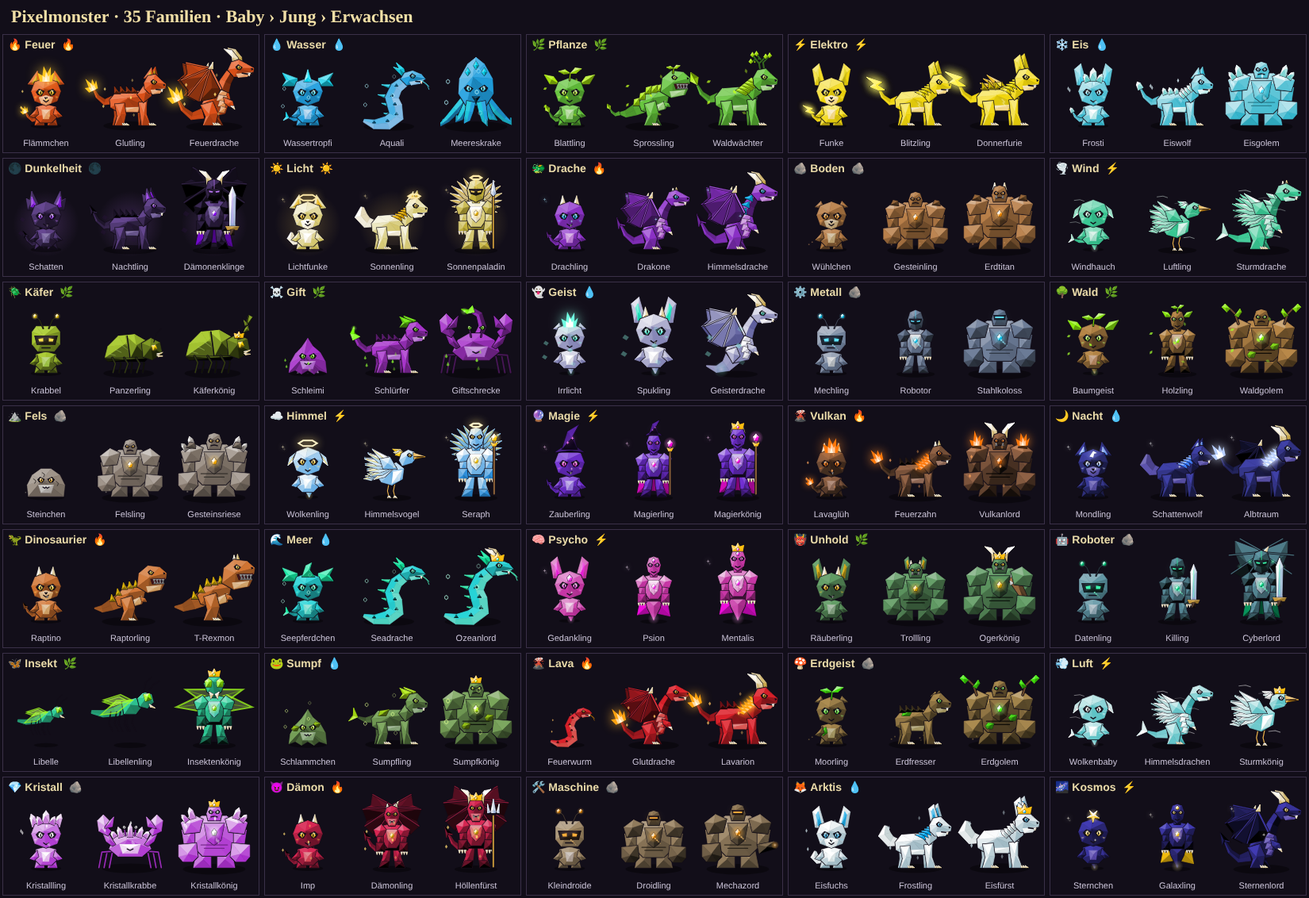
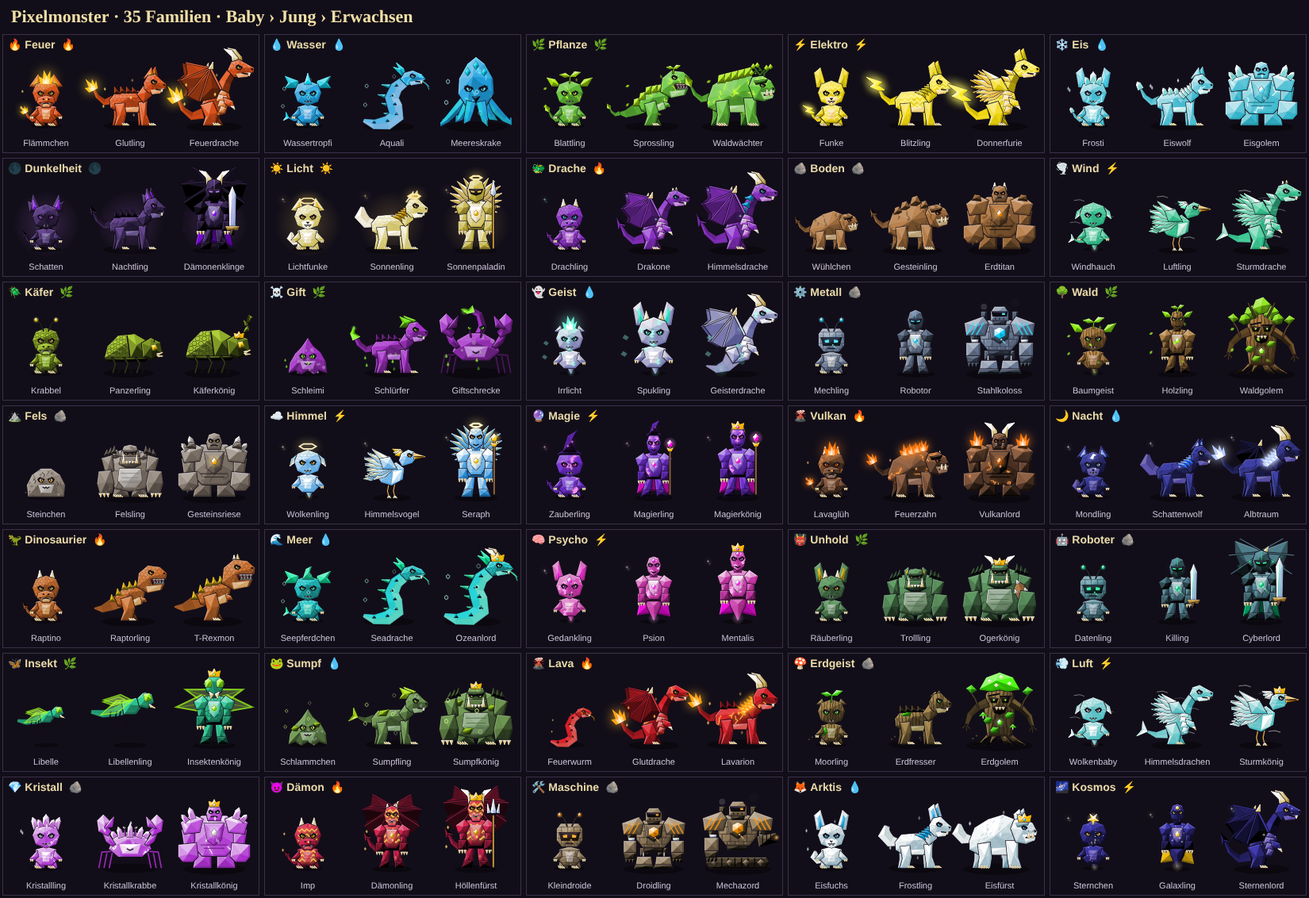
Monster-Design 0.9.4: mehr Details, grimmigere Gesichter, neue Körperbau-Varianten
Claude-Session: https://claude.ai/code/session_01CyDo4MYjtj7pV4CjS45Svt

diff --git a/update/pixelmonster.html b/update/pixelmonster.html
@@ -403,11 +403,34 @@ function glow(ctx,x,y,r,c,a=1){const g=ctx.createRadialGradient(x,y,0,x,y,r);g.a
 function line(ctx,pts,c,w,blur=0){ctx.save();ctx.strokeStyle=c;ctx.lineWidth=w;ctx.lineCap='round';ctx.lineJoin='round';if(blur){ctx.shadowColor=c;ctx.shadowBlur=blur*SC}ctx.beginPath();pts.forEach(([x,y],i)=>i?ctx.lineTo(x,y):ctx.moveTo(x,y));ctx.stroke();ctx.restore()}
 function bone(ctx,x0,y0,x1,y1){return lin(ctx,x0,y0,x1,y1,'#f6ecd2','#8a7656')}
 function pattern(ctx,p,P,x0,y0,w,h){
+  if(RIM&&CUR_F.det)detail(ctx,p,P,x0,y0,w,h,CUR_F.det);
   if(P.pattern==='keine')return;
   const r=seeded(P.seed);ctx.save();ctx.clip(p);ctx.fillStyle=tone(P.main,-24,0,.6);
   if(P.pattern==='punkte'){for(let i=0;i<10;i++){ctx.beginPath();ctx.arc(x0+r()*w,y0+r()*h,1.4+r()*2.4,0,7);ctx.fill()}}
   else if(P.pattern==='streifen'){for(let i=-1;i<7;i++){const x=x0+i*w/6;ctx.beginPath();ctx.moveTo(x,y0-6);ctx.lineTo(x+4,y0-6);ctx.lineTo(x+w*.2+4,y0+h+6);ctx.lineTo(x+w*.2,y0+h+6);ctx.fill()}}
   else{for(let i=0;i<5;i++){ctx.beginPath();ctx.ellipse(x0+r()*w,y0+r()*h,3+r()*6,2+r()*4,r()*3,0,7);ctx.fill()}}
+  ctx.restore();
+}
+// Oberflächen-Details je Familie: Schuppen, Fell, Risse, Panzerplatten, Rinde, Runen ...
+function detail(ctx,p,P,x0,y0,w,h,k){
+  const r=seeded(P.seed^hash32(k+x0+','+y0));ctx.save();ctx.clip(p);ctx.lineCap='round';ctx.lineJoin='round';
+  const dk=tone(P.main,-20,0,.55),lt=tone(P.main,18,0,.4);
+  if(k==='scales'){ctx.lineWidth=.8;for(let j=0,y=y0+3;y<y0+h;y+=4.2,j++)for(let x=x0+(j%2?2.6:0);x<x0+w;x+=5.2){ctx.strokeStyle=dk;ctx.beginPath();ctx.moveTo(x-2.4,y-1);ctx.lineTo(x,y+1.6);ctx.lineTo(x+2.4,y-1);ctx.stroke();ctx.strokeStyle=lt;ctx.beginPath();ctx.moveTo(x-1.6,y-1.6);ctx.lineTo(x,y);ctx.stroke()}}
+  else if(k==='fur'){ctx.lineWidth=.9;for(let i=0;i<w*h/26;i++){const x=x0+r()*w,y=y0+r()*h,a=1.9+r()*.5;ctx.strokeStyle=r()<.6?dk:lt;ctx.beginPath();ctx.moveTo(x,y);ctx.lineTo(x+Math.cos(a)*3.2,y+Math.sin(a)*3.2);ctx.stroke()}}
+  else if(k==='cracks'||k==='marks'||k==='runes'||k==='veins'){
+    ctx.shadowColor=P.accent;ctx.shadowBlur=5*SC;ctx.strokeStyle=tone(P.accent,k==='veins'?-10:8,0,.9);ctx.lineWidth=k==='marks'?1.6:1.1;
+    if(k==='runes'){ctx.fillStyle=ctx.strokeStyle;for(let i=0;i<Math.max(2,w*h/260);i++){const x=x0+4+r()*(w-8),y=y0+4+r()*(h-8),s=1.6+r();ctx.beginPath();ctx.moveTo(x-s,y-s);ctx.lineTo(x+s,y-s);ctx.lineTo(x-s,y+s);ctx.lineTo(x+s,y+s);ctx.moveTo(x,y-s*1.5);ctx.lineTo(x,y+s*1.5);ctx.stroke()}}
+    else if(k==='marks'){for(let i=0;i<3;i++){const y=y0+h*(.3+i*.2),xs=x0+w*.15;ctx.beginPath();ctx.moveTo(xs,y);for(let x=xs;x<x0+w*.85;x+=4)ctx.lineTo(x+2,y+((x-xs)/4%2?-2:2));ctx.stroke()}}
+    else for(let i=0;i<Math.max(2,w*h/220);i++){let x=x0+r()*w,y=y0+r()*h;ctx.beginPath();ctx.moveTo(x,y);for(let j=0;j<4;j++){x+=r()*7-3.5;y+=r()*7-2;ctx.lineTo(x,y)}ctx.stroke()}}
+  else if(k==='stone'){for(let i=0;i<w*h/160;i++){let x=x0+r()*w,y=y0+r()*h;ctx.strokeStyle=tone(P.main,-28,0,.7);ctx.lineWidth=1;ctx.beginPath();ctx.moveTo(x,y);for(let j=0;j<3;j++){x+=r()*8-4;y+=r()*6;ctx.lineTo(x,y)}ctx.stroke()}
+    for(let i=0;i<w*h/200;i++){const x=x0+r()*w,y=y0+r()*h;ctx.fillStyle=tone(P.main,r()<.5?-14:12,0,.6);ctx.fill(poly([[x,y],[x+3,y-2],[x+5,y+1],[x+2,y+3]]))}}
+  else if(k==='plates'){ctx.strokeStyle=tone(P.main,-30,0,.75);ctx.lineWidth=.9;for(let y=y0+7;y<y0+h;y+=9){ctx.beginPath();ctx.moveTo(x0,y);ctx.lineTo(x0+w,y);ctx.stroke()}
+    for(let y=y0+7,j=0;y<y0+h;y+=9,j++)for(let x=x0+(j%2?5:9);x<x0+w;x+=10){ctx.beginPath();ctx.moveTo(x,y);ctx.lineTo(x,y+9);ctx.stroke();ctx.fillStyle=tone(P.main,22,0,.8);ctx.fillRect(x+1.6,y+1.6,1.1,1.1)}}
+  else if(k==='bark'){ctx.strokeStyle=tone(P.main,-26,0,.7);ctx.lineWidth=1.1;for(let x=x0+2;x<x0+w;x+=4.5){ctx.beginPath();ctx.moveTo(x+r()*2,y0);for(let y=y0;y<y0+h;y+=5)ctx.lineTo(x+r()*2.4-1.2,y);ctx.stroke()}}
+  else if(k==='shell'){ctx.strokeStyle=tone(P.main,-26,0,.7);ctx.lineWidth=.9;for(let j=0,y=y0;y<y0+h;y+=6,j++)for(let x=x0+(j%2?4:0);x<x0+w;x+=8){ctx.stroke(poly([[x-3,y],[x-1.5,y-2.6],[x+1.5,y-2.6],[x+3,y],[x+1.5,y+2.6],[x-1.5,y+2.6]]))}}
+  else if(k==='feathers'){ctx.lineWidth=.9;for(let j=0,y=y0+3;y<y0+h;y+=4.4,j++)for(let x=x0+(j%2?3:0);x<x0+w;x+=6){ctx.strokeStyle=dk;ctx.beginPath();ctx.moveTo(x-3,y-1.6);ctx.quadraticCurveTo(x,y+2.6,x+3,y-1.6);ctx.stroke()}}
+  else if(k==='stars'){for(let i=0;i<w*h/90;i++){const x=x0+r()*w,y=y0+r()*h;ctx.fillStyle=`rgba(255,250,220,${.3+r()*.6})`;ctx.fillRect(x,y,.9+r()*.8,.9+r()*.8)}}
+  else if(k==='slime'){for(let i=0;i<w*h/180;i++){const x=x0+r()*w,y=y0+r()*h,s=1.2+r()*2.2;ctx.fillStyle=tone(P.light,10,0,.45);ctx.beginPath();ctx.arc(x,y,s,0,7);ctx.fill();ctx.strokeStyle=tone(P.main,-20,0,.5);ctx.lineWidth=.6;ctx.stroke()}}
   ctx.restore();
 }
 function eye(ctx,x,y,r,P,t,slit=true){
@@ -444,7 +467,7 @@ function accessory(ctx,P,x,y,t){
 
 function sparkle(ctx,x,y,r,c){ctx.save();ctx.fillStyle=c;ctx.shadowColor=c;ctx.shadowBlur=6*SC;ctx.beginPath();ctx.moveTo(x,y-r);ctx.quadraticCurveTo(x,y,x+r,y);ctx.quadraticCurveTo(x,y,x,y+r);ctx.quadraticCurveTo(x,y,x-r,y);ctx.quadraticCurveTo(x,y,x,y-r);ctx.fill();ctx.restore()}
 // ---------- Kantige Monster: Low-Poly-Facetten ----------
-const LDIR=[-.5,-.86];
+const LDIR=[-.5,-.86];let RIM=true,CUR_F={};
 // Füllt ein Polygon als geschliffene Facetten: jede Kante bekommt ein Dreieck zur Mitte, hell zum Licht hin, dunkel davon weg
 function facet(ctx,pts,c,o={}){
   const lw=o.lw??2.4;ctx.save();ctx.lineJoin='miter';ctx.miterLimit=5;
@@ -458,6 +481,12 @@ function facet(ctx,pts,c,o={}){
     const col=tone(c,(nx*LDIR[0]+ny*LDIR[1])*k);
     ctx.fillStyle=ctx.strokeStyle=col;ctx.lineWidth=.7;ctx.beginPath();ctx.moveTo(cx,cy);ctx.lineTo(a[0],a[1]);ctx.lineTo(b[0],b[1]);ctx.closePath();ctx.fill();ctx.stroke();
   }
+  if(lw&&o.rim!==false&&RIM){ctx.clip(p);ctx.lineCap='round';
+    for(let i=0;i<pts.length;i++){const a=pts[i],b=pts[(i+1)%pts.length];let nx=b[1]-a[1],ny=a[0]-b[0];const L=Math.hypot(nx,ny)||1;nx/=L;ny/=L;
+      if(nx*((a[0]+b[0])/2-cx)+ny*((a[1]+b[1])/2-cy)<0){nx=-nx;ny=-ny}
+      const d=nx*LDIR[0]+ny*LDIR[1];
+      if(d>.35){ctx.strokeStyle=tone(c,26,-8,.85);ctx.lineWidth=1.5}else if(d<-.4){ctx.strokeStyle=tone(c,-22,4,.7);ctx.lineWidth=3.2}else continue;
+      ctx.beginPath();ctx.moveTo(a[0],a[1]);ctx.lineTo(b[0],b[1]);ctx.stroke()}}
   ctx.restore();return p;
 }
 const mir=(pts,cx=50)=>pts.map(([x,y])=>[2*cx-x,y]);
@@ -490,6 +519,7 @@ function eyeK(ctx,x,y,r,P,t,dir=1,f=.6){
   ctx.fillStyle=g;ctx.fill(poly([[ix,y-r*.8],[ix+r*.6,y],[ix,y+r*.75],[ix-r*.6,y]]));ctx.restore();
   ctx.fillStyle='#07050b';ctx.fill(poly([[ix+r*.06*s,y-r*.6],[ix+r*.22*s,y],[ix+r*.06*s,y+r*.6],[ix-r*.1*s,y]]));
   ctx.fillStyle='#fff';ctx.fill(poly([[x-r*.42*s,y-r*.5],[x-r*.12*s,y-r*.62],[x-r*.3*s,y-r*.22]]));
+  if(f>.2&&RIM){ctx.fillStyle=OUT;ctx.fill(poly([[x-r*1.25*s,y-r*(.55+f*.2)],[x+r*1.15*s,y-r*(.25-f*.75)],[x+r*1.05*s,y+r*(.1-f*.6)],[x-r*.2*s,y-r*(.6+f*.15)]]))}
 }
 function flameK(ctx,x,y,s,c,t,ph=0,ang=0){
   const f=Math.sin(t/110+ph)*1.6,g=Math.cos(t/140+ph)*1.2;
@@ -633,6 +663,7 @@ function jawK(ctx,x,y,len,P,open=0){
   line(ctx,[[x,y],[x+len*.5,y+.6+open],[x+len,y-.4]],OUT,1.6);
   tri(ctx,[x+len*.55,y+.2+open],[x+len*.66,y+3.2+open],[x+len*.75,y],'#f6efe0',1);
 }
+function claws(ctx,x,y,n=3,dir=1,c='#efe3c4'){for(let i=0;i<n;i++)tri(ctx,[x+i*2.8-1.4,y-2.6],[x+i*2.8+1.4*dir+1.2,y+.6],[x+i*2.8-.4,y],c,.9)}
 // ---------- Körperbaupläne ----------
 // Alle zeichnen im 100×100-Raster, Boden bei y≈90, Blick nach rechts (bzw. nach vorn)
 const ARCH={
@@ -642,14 +673,15 @@ const ARCH={
     if(F.wings)for(const sd of[-1,1])wingK(ctx,P,t,F,50+sd*10,64,.42,sd,true);
     tailK(ctx,P,t,F,38,80,.7);
     if(fl){facet(ctx,[[38,72],[62,72],[58,82],[52,94],[46,84]],tone(P.main,-6));glow(ctx,52,92,6,P.accent,.4)}
-    else for(const sd of[-1,1])facet(ctx,sd<0?[[37,78],[47,78],[47,90],[34,90]]:[[53,78],[63,78],[66,90],[53,90]],tone(P.main,-8),{lw:2.2});
+    else for(const sd of[-1,1]){facet(ctx,sd<0?[[37,78],[47,78],[47,90],[34,90]]:[[53,78],[63,78],[66,90],[53,90]],tone(P.main,-8),{lw:2.2});claws(ctx,sd<0?35:55,90,3)}
     const body=[[36,64],[50,59+b],[64,64],[66,78],[58,86],[42,86],[34,78]];
     const bp=facet(ctx,body,P.main);pattern(ctx,bp,P,30,58,40,30);
     facet(ctx,[[44,68],[56,68],[54,81],[46,81]],P.light,{lw:0,k:10});
     if(F.moss)facet(ctx,[[36,70],[42,66],[44,74],[38,78]],tone(P.accent,-35,-20),{lw:1.2});
-    for(const sd of[-1,1])facet(ctx,sd<0?[[37,66],[27,77],[33,79],[39,74]]:[[63,66],[73,77],[67,79],[61,74]],tone(P.main,-4),{lw:2});
-    ctx.translate(0,b);
-    const hy=F.helm?1:0;
+    for(const sd of[-1,1]){facet(ctx,sd<0?[[37,66],[27,77],[33,79],[39,74]]:[[63,66],[73,77],[67,79],[61,74]],tone(P.main,-4),{lw:2});
+      for(let i=0;i<2;i++){const x=sd<0?28+i*2.6:72-i*2.6;tri(ctx,[x-1,78],[x+1,78],[x,81],'#efe3c4',.7)}}
+    for(let i=0;i<2;i++)line(ctx,[[45,73+i*4],[55,73+i*4]],tone(P.light,-30,0,.6),.8);
+    ctx.translate(0,b);ctx.translate(50,60);ctx.scale(.9,.9);ctx.translate(-50,-60);
     earsK(ctx,P,t,F,50,22,40,true);hornsK(ctx,P,t,F,50,22,40,true);
     const head=F.helm?[[30,30],[36,22],[64,22],[70,30],[70,48],[62,58],[38,58],[30,48]]:[[29,40],[34,27],[50,21],[66,27],[71,40],[66,54],[50,60],[34,54]];
     const hp=facet(ctx,head,F.helm?tone(P.main,4):P.main,{c:[47,36]});pattern(ctx,hp,P,28,20,44,40);
@@ -658,12 +690,14 @@ const ARCH={
       if(!sleepy&&(t+P.seed%3000)%4300>=130){ctx.fill(poly([[39,40],[46,39],[46,44],[40,44]]));ctx.fill(poly([[54,39],[61,40],[60,44],[54,44]]))}else{ctx.fillRect(39,42,7,1.2);ctx.fillRect(54,42,7,1.2)}
       ctx.restore();line(ctx,[[44,53],[56,53]],OUT,1.6);
     }else{
-      if(F.muzzle)facet(ctx,[[40,49],[50,46],[60,49],[57,57],[50,60],[43,57]],P.light,{lw:0,k:8});
-      eyeK(ctx,41.5,42,5.6,P,t,1,.15);eyeK(ctx,58.5,42,5.6,P,t,-1,.15);
-      if(F.muzzle)tri(ctx,[48,49],[52,49],[50,51.5],OUT,0);
-      line(ctx,[[46.5,53],[50,55.5],[53.5,53]],OUT,1.5);
-      if(F.horns||F.tail==='spike')tri(ctx,[51,54.4],[52.6,54.4],[51.8,57],'#fff',.8);
-      ctx.fillStyle=tone(P.accent,0,0,.45);ctx.fill(poly([[32,48],[37,47],[35,50]]));ctx.fill(poly([[68,48],[63,47],[65,50]]));
+      if(F.snout){facet(ctx,[[38,48],[50,45],[62,48],[64,56],[56,63],[44,63],[36,56]],tone(P.main,-2),{lw:2,k:16,c:[50,52]});
+        facet(ctx,[[42,57],[58,57],[55,62],[45,62]],P.light,{lw:0,k:8});for(const x of[46,54])tri(ctx,[x-1.4,50],[x+1.4,50],[x,51.6],OUT,0);
+        line(ctx,[[40,56],[45,57.5],[50,56.5],[55,57.5],[60,56]],OUT,1.5);for(const x of[44,56])tri(ctx,[x-1.2,57],[x+1.2,57],[x,60.4],'#fff',.7)}
+      else if(F.muzzle)facet(ctx,[[40,49],[50,46],[60,49],[57,57],[50,60],[43,57]],P.light,{lw:0,k:8});
+      eyeK(ctx,41.5,41,4.8,P,t,1,.65);eyeK(ctx,58.5,41,4.8,P,t,-1,.65);
+      if(!F.snout){if(F.muzzle)tri(ctx,[48,49],[52,49],[50,51.5],OUT,0);
+        line(ctx,[[45,53.5],[48,54.5],[50,53.6],[52,54.5],[55,53.5]],OUT,1.5);
+        for(const x of[47.4,52.6])tri(ctx,[x-1,54],[x+1,54],[x,56.6],'#fff',.7)}
     }
     topK(ctx,P,t,F,50,22,40);
     ctx.restore();
@@ -910,50 +944,165 @@ const ARCH={
   }}
 };
 
+// ---------- Körperbau-Varianten: gleiche Grundform, anderer Aufbau ----------
+const BUILDS={brute:{
+  // Oger: gebückt, Kopf tief zwischen den Schultern, lange Arme bis zum Boden, Hauer
+  beast(ctx,P,t,F){
+    const b=Math.sin(t/800)*1;shadow(ctx,50,92,40);
+    for(const sd of[-1,1]){const L=[[30,72],[45,72],[46,82],[48,90],[27,90],[29,82]];facet(ctx,sd<0?L:mir(L),tone(P.main,-12),{lw:2.4});claws(ctx,sd<0?29:63,90,4)}
+    ctx.save();ctx.translate(0,b);
+    const tp=facet(ctx,[[20,44],[30,30],[42,26],[58,26],[70,30],[80,44],[80,60],[70,78],[50,82],[30,78],[20,60]],P.main,{c:[46,46]});pattern(ctx,tp,P,18,24,64,60);
+    const bp=facet(ctx,[[36,52],[64,52],[66,68],[58,78],[42,78],[34,68]],tone(P.light,-6),{lw:1.4,k:12});for(let i=0;i<3;i++)line(ctx,[[38+i,58+i*6],[62-i,58+i*6]],tone(P.light,-30,0,.7),1);
+    if(F.rocks)for(const[x,y,s]of[[30,34,6],[68,36,5],[50,28,4]])facet(ctx,[[x-s,y+2],[x-s*.6,y-s],[x+s*.4,y-s*1.2],[x+s,y+1],[x,y+s*.6]],tone(P.main,-6),{lw:1.6,k:24});
+    if(F.moss)for(const[x,y]of[[28,40],[70,46],[40,74]])facet(ctx,[[x-6,y],[x-2,y-4],[x+6,y-3],[x+3,y+3],[x-3,y+3]],tone(P.accent,-38,-22),{lw:1.2});
+    for(const sd of[-1,1]){const o=pts=>sd<0?pts:mir(pts);
+      facet(ctx,o([[12,38],[26,34],[28,54],[18,60]]),tone(P.main,-4),{lw:2.2});
+      if(F.weapon==='club'&&sd>0){ctx.save();ctx.translate(86,82);ctx.rotate(-.35);facet(ctx,[[-3,0],[3,0],[7,-34],[0,-42],[-7,-34]],'#7a5634',{lw:2,k:16});for(const[x,y]of[[-6,-30],[6,-28],[0,-40],[-3,-20],[4,-16]])tri(ctx,[x-2,y],[x,y-4],[x+2,y],'#e0e0e0',1);ctx.restore()}
+      facet(ctx,o([[8,56],[24,54],[28,72],[26,84],[10,86],[6,72]]),tone(P.main,-8),{lw:2.2,k:18});
+      for(let i=0;i<3;i++){const x=sd<0?10+i*5:90-i*5;tri(ctx,[x-2,85],[x+2,85],[x+sd*-0.5,90],'#efe3c4',1)}
+      for(let i=0;i<3;i++){const x=sd<0?18+i*5:82-i*5,y=31-i*1.5;tri(ctx,[x-3,y+3],[x+sd*-1,y-5-i],[x+3,y+3],tone(P.dark,-6),1.4)}}
+    earsK(ctx,P,t,F,50,30,22,true);hornsK(ctx,P,t,F,50,26,24,true);
+    const hp=facet(ctx,[[39,30],[42,22],[50,20],[58,22],[61,30],[62,40],[57,46],[43,46],[38,40]],P.main,{c:[48,30]});pattern(ctx,hp,P,36,18,28,30);
+    facet(ctx,[[38,36],[62,36],[64,46],[56,50],[44,50],[36,46]],tone(P.dark,4),{lw:1.8,k:14});
+    line(ctx,[[42,42],[58,42]],OUT,1.4);for(let i=0;i<4;i++)tri(ctx,[44+i*4,42],[45.5+i*4,44.6],[47+i*4,42],'#f6efe0',.6);
+    for(const sd of[-1,1])facet(ctx,[[50+sd*7,44],[50+sd*9,33],[50+sd*10.5,44]],'#efe3c4',{lw:1.2,k:20});
+    facet(ctx,[[40,27],[60,27],[58,31],[42,31]],tone(P.dark,-4),{lw:1.2,k:10});
+    eyeK(ctx,45,31.5,2.4,P,t,1,1);eyeK(ctx,55,31.5,2.4,P,t,-1,1);
+    topK(ctx,P,t,F,50,21,18);ctx.restore();
+  },
+  // Baumriese: Stamm als Körper, Wurzelfüße, Astarme, Gesicht in der Rinde, Krone oder Pilzhut
+  tree(ctx,P,t,F){
+    const sw=Math.sin(t/900)*1.2;shadow(ctx,50,92,40);
+    const wood=tone(P.main,-4);
+    for(const[x0,x1,x2]of[[40,30,20],[46,42,36],[54,58,64],[60,70,80]])facet(ctx,[[x0-4,78],[x0+4,78],[x1+3,86],[x2+1,91],[x2-3,91],[x1-3,88]],tone(wood,-10),{lw:2});
+    const tp=facet(ctx,[[34,30],[42,20],[58,20],[66,30],[68,54],[64,80],[36,80],[32,54]],wood,{c:[48,40]});pattern(ctx,tp,P,30,18,40,64);
+    for(const sd of[-1,1]){const o=pts=>sd<0?pts:mir(pts),a=sd*sw;
+      ribbon(ctx,o([[35,40],[24,46+a],[14,56+a],[10,68+a]]),[5,4,3,1.6],tone(wood,-4),tone(wood,-18),2.2);
+      for(const[dx,dy]of[[-5,4],[0,7],[4,5]])line(ctx,o([[10,68+a],[10+dx,68+dy+a]]),OUT,2.4),line(ctx,o([[10,68+a],[10+dx,68+dy+a]]),tone(wood,-12),1);
+      line(ctx,o([[24,46+a],[20,36+a],[16,30+a]]),OUT,3);line(ctx,o([[24,46+a],[20,36+a],[16,30+a]]),tone(wood,-8),1.4);
+      facet(ctx,o([[16,30+a],[10,24+a],[16,20+a],[22,26+a]]),tone(P.accent,-32,-20),{lw:1.4,k:18})}
+    // Gesicht: hohle Augen, gezacktes Maul
+    for(const sd of[-1,1]){const ex=50+sd*7;facet(ctx,[[ex-5,34],[ex+5,34+sd*-1.5],[ex+3,40],[ex-3,40]].map(([x,y])=>[x,y]),'#140c0a',{lw:1.4,k:4});
+      ctx.save();ctx.shadowColor=P.accent;ctx.shadowBlur=8*SC;ctx.fillStyle=P.accent;if(!sleepy)ctx.fill(poly([[ex-1.6,36],[ex+1.6,36],[ex,38.6]]));ctx.restore();
+      line(ctx,[[ex-6,32.5+sd*-.5*-1],[ex+6,31+sd*1.5]],OUT,2)}
+    facet(ctx,[[42,46],[46,44],[50,47],[54,44],[58,46],[56,52],[50,54],[44,52]],'#140c0a',{lw:1.4,k:4});
+    for(let i=0;i<3;i++)tri(ctx,[45+i*4,46],[46.5+i*4,49],[48+i*4,46],'#d8c9a0',.6);
+    if(F.moss)for(const[x,y]of[[36,62],[62,56],[44,74]])facet(ctx,[[x-5,y],[x-2,y-4],[x+5,y-3],[x+3,y+3],[x-3,y+3]],tone(P.accent,-38,-22),{lw:1.2});
+    glow(ctx,50,64,7,P.accent,.6);gemK(ctx,50,64,2.4,P.accent,1);
+    if(F.shroom){facet(ctx,[[26,24],[34,10],[50,4],[66,10],[74,24],[60,26],[50,24],[40,26]],tone(P.accent,-20,10),{k:20,c:[46,14]});
+      for(const[x,y]of[[38,14],[52,9],[62,17],[46,19]])facet(ctx,[[x-2.4,y],[x,y-2],[x+2.4,y],[x,y+2]],'#f6efe0',{lw:0});
+      for(const[x,y,s]of[[30,56,.7],[66,70,.6]]){facet(ctx,[[x-6*s,y],[x,y-6*s],[x+6*s,y]],tone(P.accent,-20,10),{lw:1.2});line(ctx,[[x,y],[x,y+4*s]],'#efe3c4',2*s)}}
+    else{for(const[x,y,s,c]of[[38,18,9,-34],[62,18,9,-30],[50,10,11,-26],[30,26,7,-38],[70,26,7,-36]])facet(ctx,[[x-s,y+s*.3],[x-s*.6,y-s*.7],[x+s*.2,y-s],[x+s,y-s*.2],[x+s*.6,y+s*.6],[x-s*.2,y+s*.8]],tone(P.accent,c,-18),{lw:1.8,k:20});
+      if(F.branches)for(const sd of[-1,1]){line(ctx,[[50+sd*8,22],[50+sd*16,6]],OUT,3);line(ctx,[[50+sd*8,22],[50+sd*16,6]],tone(wood,-10),1.4)}}
+    topK(ctx,P,t,{...F,branches:0,moss:0},50,F.shroom?6:6,18);
+  },
+  // Kampfmaschine: Kastenrumpf mit Reaktor, Schulterpanzer, Kolbenbeine oder Ketten, Visierkopf
+  mech(ctx,P,t,F){
+    const b=Math.sin(t/500)*.6;shadow(ctx,50,92,40);
+    const steel=P.main,dk=tone(P.dark,-6);
+    if(F.treads){facet(ctx,[[16,78],[84,78],[88,84],[84,91],[16,91],[12,84]],tone(dk,-6),{lw:2.4,k:10});
+      for(let i=0;i<9;i++){const x=18+i*8+(t/80)%8;if(x<84)line(ctx,[[x,79],[x,90]],tone(dk,-20),1.4)}
+      for(const x of[22,40,60,78])facet(ctx,[[x-4,84],[x,80],[x+4,84],[x,88]],tone(steel,-10),{lw:1.2,k:20})}
+    else for(const sd of[-1,1]){const o=pts=>sd<0?pts:mir(pts);
+      facet(ctx,o([[32,64],[44,64],[44,74],[32,74]]),dk,{lw:2,k:16});
+      line(ctx,o([[36,70],[36,82]]),OUT,3.4);line(ctx,o([[36,70],[36,82]]),'#c9ced8',1.6);
+      facet(ctx,o([[28,76],[46,76],[48,90],[26,90]]),steel,{lw:2.2,k:18});facet(ctx,o([[26,86],[48,86],[50,91],[24,91]]),tone(dk,-6),{lw:1.6})}
+    ctx.save();ctx.translate(0,b);
+    facet(ctx,[[36,58],[64,58],[62,68],[38,68]],dk,{lw:2});
+    if(F.pipes!==false)for(const sd of[-1,1]){const o=pts=>sd<0?pts:mir(pts);facet(ctx,o([[28,16],[34,16],[34,30],[28,30]]),tone(dk,-4),{lw:1.6,k:16});
+      const ph=(t/700+(sd>0?.5:0))%1;ctx.globalAlpha=.5*(1-ph);ctx.fillStyle='#8a8494';ctx.beginPath();ctx.arc(sd<0?31:69,14-ph*10,2+ph*4,0,7);ctx.fill();ctx.globalAlpha=1}
+    const tp=facet(ctx,[[24,30],[40,26],[60,26],[76,30],[72,52],[64,62],[36,62],[28,52]],steel,{c:[48,38]});pattern(ctx,tp,P,22,24,56,40);
+    facet(ctx,[[38,32],[62,32],[60,48],[50,54],[40,48]],tone(dk,6),{lw:1.6,k:18});
+    const pulse=.7+Math.sin(t/300)*.3;glow(ctx,50,42,12*pulse,P.accent,.9);
+    facet(ctx,[[50,35],[56,38],[56,45],[50,48],[44,45],[44,38]],tone(P.accent,0),{lw:1.4,k:30});
+    for(const sd of[-1,1]){const o=pts=>sd<0?pts:mir(pts);
+      facet(ctx,o([[14,38],[24,36],[24,50],[16,52]]),dk,{lw:2});
+      facet(ctx,o([[16,50],[24,50],[23,54],[17,54]]),'#c9ced8',{lw:1.2});
+      if(F.cannon&&sd>0){facet(ctx,[[74,52],[96,48],[98,58],[76,64]],tone(dk,-4),{lw:2,k:22});for(let i=0;i<3;i++)line(ctx,[[80+i*5,51-i],[80+i*5,61-i]],tone(dk,-25),1);glow(ctx,97,53,6*pulse,P.accent,.9)}
+      else{facet(ctx,o([[10,54],[26,54],[26,70],[10,70]]),steel,{lw:2.2,k:18});facet(ctx,o([[10,70],[26,70],[24,78],[12,78]]),dk,{lw:2});
+        for(let i=0;i<3;i++)facet(ctx,o([[12+i*4.4,78],[15.6+i*4.4,78],[15+i*4.4,82],[12.6+i*4.4,82]]),tone(dk,-8),{lw:1})}
+      facet(ctx,o([[8,30],[30,22],[36,30],[32,44],[10,44]]),steel,{lw:2.4,k:22,c:o([[22,34]])[0]});
+      for(let i=0;i<3;i++){ctx.save();ctx.clip(poly(o([[8,30],[30,22],[36,30],[32,44],[10,44]])));line(ctx,o([[10+i*6,44],[18+i*6,30]]),tone(P.accent,-10,0,.8),1.8);ctx.restore()}}
+    facet(ctx,[[42,26],[58,26],[57,31],[43,31]],dk,{lw:1.6});
+    const hp=facet(ctx,[[40,16],[44,10],[56,10],[60,16],[60,26],[40,26]],steel,{c:[48,16]});
+    facet(ctx,[[41,16],[59,16],[58,21],[42,21]],'#0c0a12',{lw:1.2,k:4});
+    ctx.save();ctx.shadowColor=P.accent;ctx.shadowBlur=8*SC;ctx.fillStyle=P.accent;const sx=44+((Math.sin(t/700)+1)/2)*9;ctx.fillRect(sx,17.4,3.6,2.2);ctx.restore();
+    for(let i=0;i<3;i++)line(ctx,[[45+i*5,23.5],[45+i*5,25]],tone(dk,-25),1);
+    topK(ctx,P,t,F,50,10,18);ctx.restore();
+  }},
+quad:{
+  // Wuchtiges Tier: Schulterbuckel, tiefer Kopf mit Hauern, kurze dicke Beine
+  heavy(ctx,P,t,F){
+    const b=Math.sin(t/800)*.8;ctx.save();ctx.translate(-4,0);shadow(ctx,50,92,40);
+    for(const p of[[[24,66],[34,66],[36,80],[34,90],[22,90],[24,80]],[[56,64],[68,64],[68,80],[70,90],[58,90],[58,80]]])facet(ctx,p,tone(P.main,-16),{lw:2.2});
+    tailK(ctx,P,t,{...F,tail:F.tail||'spike'},20,56,.9);
+    const body=[[18,58],[24,42],[40,32],[58,26+b*.5],[72,32],[78,46],[76,64],[64,74],[30,74],[18,68]];
+    const bp=facet(ctx,body,P.main,{c:[48,52]});pattern(ctx,bp,P,16,24,64,52);
+    facet(ctx,[[30,68],[64,66],[62,74],[32,74]],P.light,{lw:0,k:8});
+    if(F.rocks)for(const[x,y,s]of[[40,34,6],[54,28,7],[66,32,5],[30,40,5]])facet(ctx,[[x-s,y+3],[x-s*.6,y-s],[x+s*.3,y-s*1.3],[x+s,y],[x+s*.2,y+s*.5]],tone(P.main,-8),{lw:1.6,k:24});
+    if(F.mane==='flame')for(let i=0;i<4;i++)flameK(ctx,40+i*8,34-i*2+b,1.1,P.accent,t,i);
+    else if(F.mane==='leaf')for(let i=0;i<5;i++){const x=34+i*8,y=36-i*2;facet(ctx,[[x-4,y+3],[x-3,y-6],[x+5,y-8],[x+5,y+2]],tone(P.accent,-28,-12),{lw:1.4,k:18})}
+    if(F.moss)facet(ctx,[[36,36],[50,30],[48,40],[36,42]],tone(P.accent,-35,-20),{lw:1.2});
+    for(const p of[[[28,62],[42,60],[44,78],[42,90],[28,90],[30,78]],[[62,58],[76,58],[76,78],[80,90],[66,90],[64,78]]]){facet(ctx,p,P.main,{lw:2.2});claws(ctx,p[3][0]-12,90,4)}
+    ctx.save();ctx.translate(0,b);
+    earsK(ctx,P,t,F,82,36,28,false);hornsK(ctx,P,t,F,84,36,30,false);
+    const hp=facet(ctx,[[68,42],[72,32],[84,30],[94,36],[99,46],[96,56],[86,60],[74,58]],P.main,{c:[82,44]});pattern(ctx,hp,P,66,28,34,34);
+    facet(ctx,[[82,50],[98,48],[96,56],[86,58]],P.light,{lw:0,k:8});
+    facet(ctx,[[74,36],[90,34],[88,38],[76,40]],tone(P.dark,-4),{lw:1,k:8});
+    eyeK(ctx,84,41,3.2,P,t,1,1);
+    line(ctx,[[86,53],[98,51]],OUT,1.6);for(const x of[88,93])tri(ctx,[x,53],[x+1.4,46],[x+3,52.6],'#efe3c4',1);
+    tri(ctx,[96,44],[98.4,45],[96.6,46.4],OUT,0);
+    topK(ctx,P,t,F,84,32,22);ctx.restore();ctx.restore();
+  }}};
+const BUILD_HEAD={beast:[50,24],tree:[50,10],mech:[50,12],heavy:[80,34]};
+
 // ---------- 35 Monster-Familien mit je drei Stufen ----------
 // [Schlüssel, Name, Symbol, Element, Farbton, Sättigung, Helligkeit, Akzent, Teilchen, [Baby, Jung, Erwachsen], [Bauplan je Stufe]]
 const FAMILY_LIST=[
-  ['feuer','Feuer','🔥','feuer',12,78,52,'#ffcf3b','flame',['Flämmchen','Glutling','Feuerdrache'],['imp ears:cat top:flame tail:flame muzzle','quad ears:cat tail:flame spikes','drake horns:curved wings:bat tail:flame spikes']],
+  ['feuer','Feuer','🔥','feuer',12,78,52,'#ffcf3b','flame',['Flämmchen','Glutling','Feuerdrache'],['imp ears:cat top:flame tail:flame snout','quad ears:cat tail:flame spikes','drake horns:curved wings:bat tail:flame spikes']],
   ['wasser','Wasser','💧','wasser',205,70,55,'#7ff0ff','bubble',['Wassertropfi','Aquali','Meereskrake'],['imp ears:fin top:drop tail:fin','serpent fins','kraken']],
-  ['pflanze','Pflanze','🌿','natur',105,58,46,'#d6ff6a','leaf',['Blattling','Sprossling','Waldwächter'],['imp top:sprout ears:leaf tail:leaf','rex top:sprout tail:leaf spikes:leaf','quad horns:antler tail:leaf mane:leaf']],
-  ['elektro','Elektro','⚡','blitz',48,88,55,'#fff36b','spark',['Funke','Blitzling','Donnerfurie'],['imp ears:long tail:bolt muzzle','quad ears:long tail:bolt mane','quad ears:long tail:bolt mane spikes wings:feather']],
+  ['pflanze','Pflanze','🌿','natur',105,58,46,'#d6ff6a','leaf',['Blattling','Sprossling','Waldwächter'],['imp top:sprout ears:leaf tail:leaf','rex top:sprout tail:leaf spikes:leaf','quad build:heavy horns:antler tail:leaf mane:leaf']],
+  ['elektro','Elektro','⚡','blitz',48,88,55,'#fff36b','spark',['Funke','Blitzling','Donnerfurie'],['imp ears:long tail:bolt muzzle','quad ears:long tail:bolt mane','drake ears:long wings:feather tail:bolt mane:feather spikes']],
   ['eis','Eis','❄','wasser',196,62,72,'#c8f6ff','ice',['Frosti','Eiswolf','Eisgolem'],['imp ears:long top:crystal tail:crystal','quad ears:cat mane:crystal tail:crystal spikes:crystal','brute crystals']],
   ['dunkelheit','Dunkelheit','🌑','dunkel',270,40,30,'#c27bff','smoke',['Schatten','Nachtling','Dämonenklinge'],['imp ears:bat wings:bat tail:spike','quad ears:bat spikes tail:spike','biped head:helm horns:curved wings:bat weapon:sword cape']],
   ['licht','Licht','☀','licht',45,60,80,'#ffd75e','star',['Lichtfunke','Sonnenling','Sonnenpaladin'],['imp ears:cat top:halo tail:fluff muzzle','quad ears:cat mane top:halo tail:fluff','biped head:helm wings:feather weapon:spear halo']],
-  ['drache','Drache','🐲','feuer',282,58,50,'#5fd4ff','star',['Drachling','Drakone','Himmelsdrache'],['imp horns:small wings:bat tail:spike','drake horns:small wings:bat tail:spike spikes','drake horns:curved wings:bat tail:spike spikes mane']],
-  ['boden','Boden','🪨','erde',30,38,45,'#ffb85c','dust',['Wühlchen','Gesteinling','Erdtitan'],['imp ears:small muzzle','brute rocks','brute rocks horns:small']],
+  ['drache','Drache','🐲','feuer',282,58,50,'#5fd4ff','star',['Drachling','Drakone','Himmelsdrache'],['imp horns:small wings:bat tail:spike snout','drake horns:small wings:bat tail:spike spikes','drake horns:curved wings:bat tail:spike spikes mane']],
+  ['boden','Boden','🪨','erde',30,38,45,'#ffb85c','dust',['Wühlchen','Gesteinling','Erdtitan'],['quad build:heavy ears:small','quad build:heavy rocks horns:small','brute rocks horns:small']],
   ['wind','Wind','🌪','blitz',152,55,58,'#e9fff6','wind',['Windhauch','Luftling','Sturmdrache'],['imp ears:feather tail:feather float','flyer crest','drake wings:feather tail:feather horns:small mane:feather']],
-  ['kaefer','Käfer','🪲','natur',78,55,40,'#ffe14d','none',['Krabbel','Panzerling','Käferkönig'],['imp antenna helm','bug','bug horn crown']],
+  ['kaefer','Käfer','🪲','natur',78,55,40,'#ffe14d','none',['Krabbel','Panzerling','Käferkönig'],['imp antenna snout','bug','bug horn crown']],
   ['gift','Gift','☠','natur',290,55,48,'#9dff4d','poison',['Schleimi','Schlürfer','Giftschrecke'],['blob','quad ears:fin spikes tail:stinger','crab tail:stinger']],
   ['geist','Geist','👻','wasser',245,30,78,'#8fffe8','wisp',['Irrlicht','Spukling','Geisterdrache'],['imp float top:flame ears:small','imp float ears:long horns:small','drake float wings:bat horns:curved']],
-  ['metall','Metall','⚙','erde',215,12,60,'#5fe3ff','gear',['Mechling','Robotor','Stahlkoloss'],['imp helm antenna','biped head:helm','brute helm plates']],
-  ['wald','Wald','🌳','natur',36,40,40,'#c6ff7a','leaf',['Baumgeist','Holzling','Waldgolem'],['imp top:sprout ears:leaf float','biped head:mask top:sprout ears:leaf','brute branches moss']],
-  ['fels','Fels','⛰','erde',25,14,52,'#ffcf6b','dust',['Steinchen','Felsling','Gesteinsriese'],['blob rock','brute','brute rocks crystals']],
+  ['metall','Metall','⚙','erde',215,12,60,'#5fe3ff','gear',['Mechling','Robotor','Stahlkoloss'],['imp helm antenna','biped head:helm','brute build:mech']],
+  ['wald','Wald','🌳','natur',36,40,40,'#c6ff7a','leaf',['Baumgeist','Holzling','Waldgolem'],['imp top:sprout ears:leaf float','biped head:mask top:sprout ears:leaf','brute build:tree branches moss']],
+  ['fels','Fels','⛰','erde',25,14,52,'#ffcf6b','dust',['Steinchen','Felsling','Gesteinsriese'],['blob rock','brute build:beast rocks','brute rocks crystals']],
   ['himmel','Himmel','☁','blitz',205,70,82,'#ffe27a','star',['Wolkenling','Himmelsvogel','Seraph'],['imp float ears:feather top:halo','flyer crest','biped head:mask wings:feather halo weapon:staff']],
   ['magie','Magie','🔮','blitz',265,60,50,'#ff7bf0','rune',['Zauberling','Magierling','Magierkönig'],['imp top:hat tail:spike','biped head:mask hat weapon:staff cape','biped head:mask horns:small crown weapon:staff cape']],
-  ['vulkan','Vulkan','🌋','feuer',16,40,30,'#ff8a2a','ember',['Lavaglüh','Feuerzahn','Vulkanlord'],['imp horns:small top:flame tail:flame','quad horns:small spikes tail:flame mane:flame','brute rocks flames horns:curved']],
-  ['nacht','Nacht','🌙','wasser',232,45,34,'#d6e4ff','star',['Mondling','Schattenwolf','Albtraum'],['imp ears:cat top:moon muzzle','quad ears:cat mane tail:fluff','quad horns:curved mane:flame wings:bat tail:flame']],
-  ['dino','Dinosaurier','🦖','feuer',28,62,50,'#ffe066','none',['Raptino','Raptorling','T-Rexmon'],['imp horns:small tail:spike muzzle','rex spikes','rex spikes horns:small']],
+  ['vulkan','Vulkan','🌋','feuer',16,40,30,'#ff8a2a','ember',['Lavaglüh','Feuerzahn','Vulkanlord'],['imp horns:small top:flame tail:flame snout','quad build:heavy horns:small tail:flame mane:flame','brute rocks flames horns:curved']],
+  ['nacht','Nacht','🌙','wasser',232,45,34,'#d6e4ff','star',['Mondling','Schattenwolf','Albtraum'],['imp ears:cat top:moon tail:fluff muzzle','quad ears:cat mane tail:fluff','quad horns:curved mane:flame wings:bat tail:flame']],
+  ['dino','Dinosaurier','🦖','feuer',28,62,50,'#ffe066','none',['Raptino','Raptorling','T-Rexmon'],['imp horns:small tail:spike snout','rex spikes','rex spikes horns:small']],
   ['meer','Meer','🌊','wasser',186,65,45,'#7dffd4','bubble',['Seepferdchen','Seadrache','Ozeanlord'],['imp ears:fin top:fin tail:fin','serpent fins','serpent fins horns:curved crown']],
   ['psycho','Psycho','🧠','blitz',312,55,62,'#ff9cf6','rune',['Gedankling','Psion','Mentalis'],['imp float top:gem ears:long','biped head:mask float gem cape','biped head:mask float gem cape crown']],
-  ['unhold','Unhold','👹','natur',115,28,42,'#ffd23f','none',['Räuberling','Trollling','Ogerkönig'],['imp ears:long horns:small','brute ears:long horns:small','brute horns:curved crown weapon:club']],
+  ['unhold','Unhold','👹','natur',115,28,42,'#ffd23f','none',['Räuberling','Trollling','Ogerkönig'],['imp ears:long horns:small','brute build:beast ears:long horns:small','brute build:beast horns:curved crown weapon:club']],
   ['roboter','Roboter','🤖','erde',188,25,50,'#3dffb0','data',['Datenling','Killing','Cyberlord'],['imp helm antenna','biped head:helm weapon:sword','biped head:helm wings:mech weapon:sword cape']],
   ['insekt','Insekt','🦋','natur',165,60,48,'#b4ff4d','none',['Libelle','Libellenling','Insektenkönig'],['flyer insect','flyer insect','biped head:insect wings:insect crown']],
-  ['sumpf','Sumpf','🐸','wasser',95,35,36,'#d4ff5a','bubble',['Schlammchen','Sumpfling','Sumpfkönig'],['blob moss','quad ears:fin moss tail:fin','brute moss crown']],
+  ['sumpf','Sumpf','🐸','wasser',95,35,36,'#d4ff5a','bubble',['Schlammchen','Sumpfling','Sumpfkönig'],['blob moss','quad ears:fin moss tail:fin','brute build:beast moss crown']],
   ['lava','Lava','🌋','feuer',4,75,40,'#ffb02e','ember',['Feuerwurm','Glutdrache','Lavarion'],['serpent','drake wings:bat tail:flame','quad mane:flame horns:curved tail:flame spikes']],
-  ['erdgeist','Erdgeist','🍄','erde',42,32,36,'#9bff7a','dust',['Moorling','Erdfresser','Erdgolem'],['imp top:sprout ears:small moss','quad ears:small spikes moss','brute moss branches']],
+  ['erdgeist','Erdgeist','🍄','erde',42,32,36,'#9bff7a','dust',['Moorling','Erdfresser','Erdgolem'],['imp top:sprout ears:small moss','quad ears:small spikes moss','brute build:tree moss shroom']],
   ['luft','Luft','💨','blitz',180,45,76,'#ffffff','wind',['Wolkenbaby','Himmelsdrachen','Sturmkönig'],['imp float ears:feather tail:feather','drake wings:feather tail:feather','flyer crest crown']],
   ['kristall','Kristall','💎','erde',290,58,66,'#ffffff','crystal',['Kristallling','Kristallkrabbe','Kristallkönig'],['imp top:crystal ears:crystal','crab crystals','brute crystals crown']],
-  ['daemon','Dämon','😈','feuer',352,65,40,'#ffcf3b','ember',['Imp','Dämonling','Höllenfürst'],['imp horns:small wings:bat tail:spike','biped head:beast horns:small wings:bat tail:spike','biped head:beast horns:curved wings:bat tail:spike weapon:trident crown']],
-  ['maschine','Maschine','🛠','erde',30,22,46,'#ffae3b','gear',['Kleindroide','Droidling','Mechazord'],['imp helm antenna','brute helm','brute helm plates cannon']],
-  ['arktis','Arktis','🦊','wasser',200,25,88,'#7fd8ff','snow',['Eisfuchs','Frostling','Eisfürst'],['imp ears:long tail:fluff muzzle','quad ears:long tail:fluff mane','quad ears:long tail:fluff mane:crystal horns:crystal crown']],
+  ['daemon','Dämon','😈','feuer',352,65,40,'#ffcf3b','ember',['Imp','Dämonling','Höllenfürst'],['imp horns:small wings:bat tail:spike snout','biped head:beast horns:small wings:bat tail:spike','biped head:beast horns:curved wings:bat tail:spike weapon:trident crown']],
+  ['maschine','Maschine','🛠','erde',30,22,46,'#ffae3b','gear',['Kleindroide','Droidling','Mechazord'],['imp helm antenna','brute build:mech pipes:false','brute build:mech cannon treads']],
+  ['arktis','Arktis','🦊','wasser',200,25,88,'#7fd8ff','snow',['Eisfuchs','Frostling','Eisfürst'],['imp ears:long tail:fluff muzzle','quad ears:long tail:fluff mane','quad build:heavy ears:long tail:fluff horns:crystal crown']],
   ['kosmos','Kosmos','🌌','blitz',240,55,30,'#ffe9a0','star',['Sternchen','Galaxling','Sternenlord'],['imp float top:star','biped head:mask float gem cape','drake wings:bat horns:curved tail:spike']]
 ];
-function parseFeat(s){const o={};for(const w of s.split(' ').slice(1)){const[k,v]=w.split(':');o[k]=v??true}return o}
+function parseFeat(s){const o={};for(const w of s.split(' ').slice(1)){const[k,v]=w.split(':');o[k]=v==='false'?false:v??true}return o}
 const FAMILIES={};
+const FAM_DET={feuer:'scales',wasser:'veins',pflanze:'veins',elektro:'marks',eis:'cracks',dunkelheit:'fur',licht:'feathers',drache:'scales',boden:'stone',wind:'feathers',
+  kaefer:'shell',gift:'slime',geist:'runes',metall:'plates',wald:'bark',fels:'stone',himmel:'feathers',magie:'runes',vulkan:'cracks',nacht:'fur',dino:'scales',meer:'scales',
+  psycho:'runes',unhold:'fur',roboter:'plates',insekt:'shell',sumpf:'slime',lava:'cracks',erdgeist:'bark',luft:'feathers',kristall:'cracks',daemon:'marks',maschine:'plates',arktis:'fur',kosmos:'stars'};
 for(const[key,name,icon,el,h,s,l,acc,fx,names,plans]of FAMILY_LIST)
-  FAMILIES[key]={key,name,icon,element:el,h,s,l,accent:acc,names,plans:plans.map(p=>({arch:p.split(' ')[0],F:{fx,...parseFeat(p)}}))};
-const STAGE_SCALE={1:{imp:.84,serpent:.6,flyer:.66,blob:.76},2:{imp:1,_:.9},3:{_:1}};
+  FAMILIES[key]={key,name,icon,element:el,h,s,l,accent:acc,names,plans:plans.map(p=>({arch:p.split(' ')[0],F:{fx,det:FAM_DET[key],...parseFeat(p)}}))};
+const STAGE_SCALE={1:{imp:.84,serpent:.6,flyer:.66,blob:.76,quad:.72,drake:.7,rex:.68,bug:.72,_:.8},2:{imp:1,_:.9},3:{_:1}};
 function famScale(st,arch){const t=STAGE_SCALE[st];return t[arch]??t._??1}
 
 // Kopfhöhe (für Accessoires) und Wippen je Bauplan
@@ -982,14 +1131,16 @@ const ART={
 const HEAD={schleim:[50,36]},BOBF={schleim:()=>0},NOACC={};
 function drawFam(ctx,P,t,f,st){
   const pl=f.plans[st-1],s=famScale(st,pl.arch);
-  ctx.save();ctx.translate(50,91);ctx.scale(s,s);ctx.translate(-50,-91);ARCH[pl.arch].draw(ctx,P,t,pl.F);fxK(ctx,P,t,pl.F);ctx.restore();
+  RIM=P.main!==P.dark;CUR_F=pl.F;
+  ctx.save();ctx.translate(50,91);ctx.scale(s,s);ctx.translate(-50,-91);(BUILDS[pl.arch]?.[pl.F.build]||ARCH[pl.arch].draw)(ctx,P,t,pl.F);fxK(ctx,P,t,pl.F);ctx.restore();
+  CUR_F={};RIM=true;
 }
 const FAM_KEYS=Object.keys(FAMILIES),EL_FAM={feuer:'feuer',wasser:'wasser',erde:'boden',blitz:'elektro',natur:'pflanze',licht:'licht',dunkel:'dunkelheit'};
 for(const f of Object.values(FAMILIES))for(let st=1;st<=3;st++){
   const key=f.key+st,pl=f.plans[st-1],sc=famScale(st,pl.arch),A=ARCH[pl.arch],rare=f.element==='licht'||f.element==='dunkel'?1.1:1;
   SPECIES[key]={name:f.names[st-1],stage:st,family:f.key,mod:st===1?[1,1,1]:st===2?[1.1,1.1,1.1]:ARCH_MOD[pl.arch].map(v=>Math.round(v*rare*100)/100),sp:st===3?EL_SPECIAL[f.element]:'rempler'};
   ART[key]=(ctx,P,t)=>drawFam(ctx,P,t,f,st);
-  const hd=pl.arch==='flyer'&&pl.F.insect?[73,31]:A.head;
+  const hd=pl.arch==='flyer'&&pl.F.insect?[73,31]:BUILD_HEAD[pl.F.build]||A.head;
   HEAD[key]=[50+(hd[0]-50)*sc,91+(hd[1]-91)*sc];BOBF[key]=t=>ARCH_BOB[pl.arch](t,pl.F)*sc;
   if(pl.F.crown||pl.F.hat||pl.F.top==='hat')NOACC[key]=1;
 }
